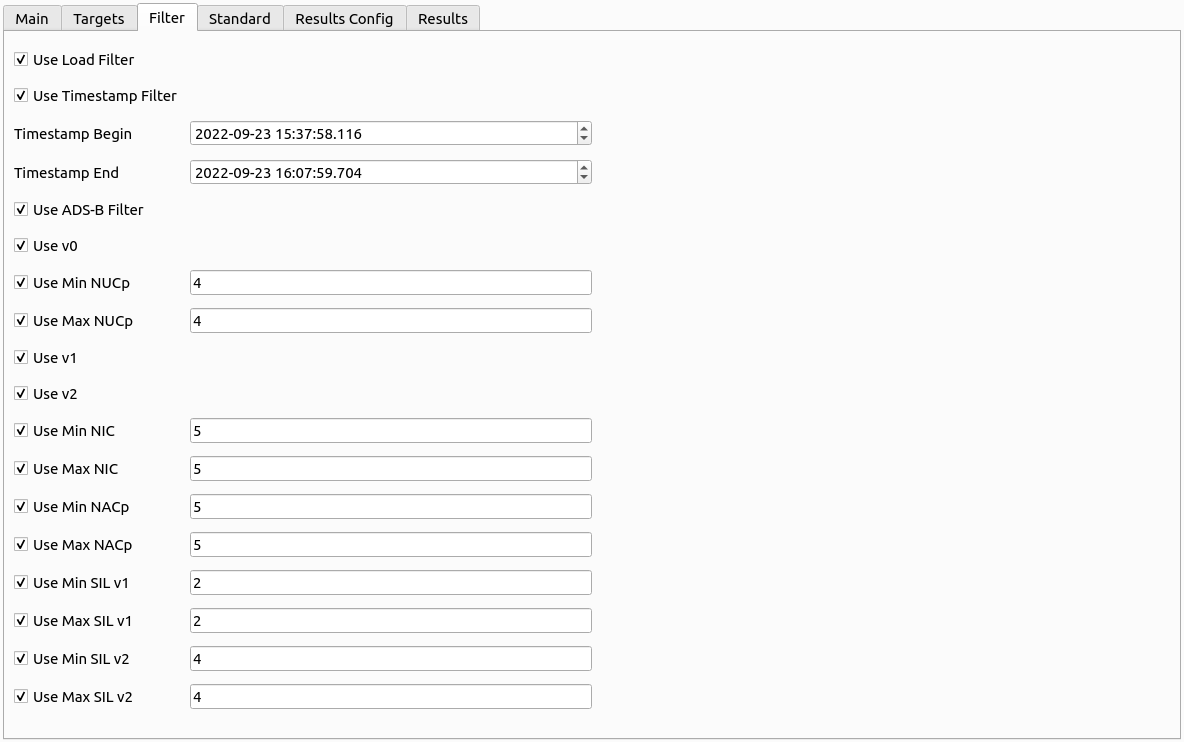
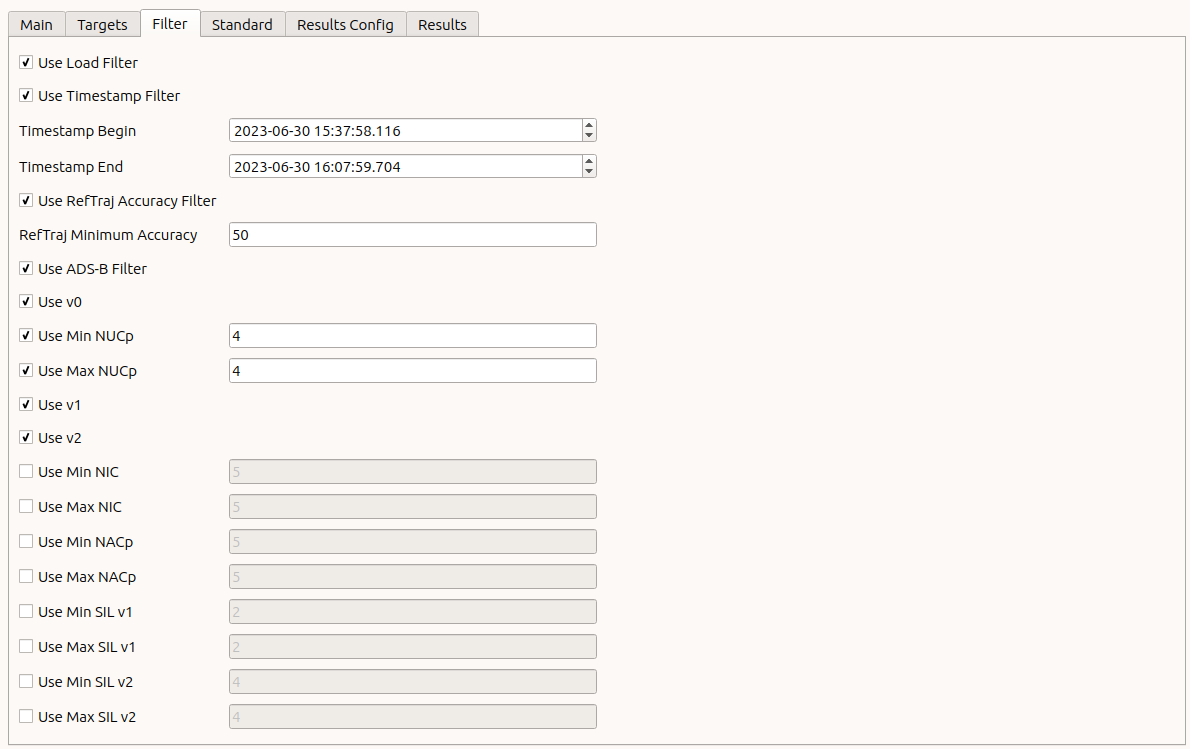
docu up

diff --git a/doc/user_manual/eval/evaluation.tex b/doc/user_manual/eval/evaluation.tex
@@ -202,6 +202,7 @@ Below, the following elements exist:
 \begin{itemize}  
 \item 'Use Load Filter': Toggles usage of the load filter
 \item 'Use Timestamp Filter: Toggles usage of the timestamp filter
+\item 'Use RefTraj Accuracy Filter: Toggles usage of the minimum accuracy filter for DBContent RefTraj
 \item 'Use ADS-B Filter: Toggles usage of the ADS-B filter
 \item 'Use v0: Toggles usage of MOPS Version 0
 \item 'Use Min NUCp: Toggles usage of the minimum NUCp value filter
@@ -244,7 +245,8 @@ Currently, the following standards are (partly) supported:
 \begin{itemize}  
 \item EUROCAE ED-116 (\href{https://eshop.eurocae.net/eurocae-documents-and-reports/ed-116/}{Link})
 \item EUROCAE ED-117/A (\href{https://eshop.eurocae.net/eurocae-documents-and-reports/ed-117a/}{Link})
-\item EUROCAE ED-87C (\href{https://eshop.eurocae.net/eurocae-documents-and-reports/ed-87c/}{Link})
+\item EUROCAE ED-87C/E (\href{https://eshop.eurocae.net/eurocae-documents-and-reports/ed-87c/}{Link})
+\item EUROCAE ED-142 (\href{https://eshop.eurocae.net/eurocae-documents-and-reports/ed-142/}{Link})
 \end{itemize}
 \ \\
 
@@ -303,14 +305,18 @@ The following requirements exist:
     \nameref{sec:eval_req_extra_data} & Calculates probability of unused test data (based on test data only) \\ \hline
     \nameref{sec:eval_req_extra_track} & Calculates probability of undetected tracks (based on reference data only) \\ \hline
     \nameref{sec:eval_req_id_correct} & Calculates probability of correct secondary identification \\ \hline
+    \nameref{sec:eval_req_id_correct_periods} & Calculates probability of correct secondary identification based on UIs \\ \hline
     \nameref{sec:eval_req_id_false} & Calculates probability of false secondary identification \\ \hline
     \nameref{sec:eval_req_m3a_false} & Calculates probability of false Mode 3/A code \\ \hline
     \nameref{sec:eval_req_m3a_present} & Calculates probability of Mode 3/A code present \\ \hline
+    \nameref{sec:eval_req_mc_correct} & Calculates probability of correct Mode C code \\ \hline
+    \nameref{sec:eval_req_mc_correct_periods} & Calculates probability of correct Mode C code based on UIs \\ \hline
     \nameref{sec:eval_req_mc_false} & Calculates probability of false Mode C code \\ \hline
     \nameref{sec:eval_req_mc_present} & Calculates probability of Mode C code present \\ \hline
     \nameref{sec:eval_req_pos_across} & Calculates the probability of the position across error begin within a threshold \\ \hline
     \nameref{sec:eval_req_pos_along} & Calculates the probability of the position along error begin within a threshold \\ \hline
     \nameref{sec:eval_req_pos_distance} & Calculates the probability of the position error begin within or outside a threshold \\ \hline
+    \nameref{sec:eval_req_pos_distance_rms} & Calculates the probability of the position error begin within or outside an RMS threshold \\ \hline
     \nameref{sec:eval_req_pos_latency}  & Calculates the probability of the position latency begin within a threshold \\ \hline
     \nameref{sec:eval_req_speed} & Calculates the probability of the speed error begin within or outside a threshold or percentage \\ \hline
 \end{tabularx}
@@ -334,6 +340,25 @@ Each requirement has the following common attributes:
 \ \\
 
 For detailed information about each requirement please refer to section \nameref{sec:eval_requirements}.
+
+\subsection{Results Config Tab}
+
+\begin{figure}[H]
+  \hspace*{-2cm}
+    \includegraphics[width=18cm,frame]{figures/eval_results_config.png}
+  \caption{Evaluation Results tab}
+\end{figure}
+
+The following settings can be used to configure the content of the generated results:
+\begin{itemize}  
+\item Skip No Data Details: Skip per target report details of no evaluated data existsed (recomended)
+\item Split Results by MOPS Version: Split sector aggregations also by ADS-B MOPS Versions (unknown,V0,V1,V2)
+\item Split Results by Mode A/C Only and Mode S: Split sector aggregations also by Mode A/C Only and Mode S results
+\item Show ADS-B Info: Show ADS-B MOPS Version in results target lists
+\item Show OK data in Sector Results: Show also OK markings in sector aggregations (not only errors)
+\item Results Detail WGS84 Zoom Factor: Zoom factor in OSGView for target report details
+\end{itemize}
+\ \\
 
 \subsection{Results Tab}
 

diff --git a/doc/user_manual/eval/eval_requirements.tex b/doc/user_manual/eval/eval_requirements.tex
@@ -565,6 +565,18 @@ Also, a table is given for all single targets, sorted by PEx.
 \end{table}
 \end{center}
 
+\subsection{Identification Correct Periods}
+\label{sec:eval_req_id_correct_periods} 
+
+\hl{TODO}
+
+\subsubsection{Configuration}
+
+\subsubsection{Result Values}
+
+\paragraph{Sector}
+\paragraph{Single Target}
+
 \subsection{Identification False}
 \label{sec:eval_req_id_false} 
 
@@ -794,6 +806,33 @@ Also, a table is given for all single targets, sorted by PP.
 \end{tabularx}
 \end{table}
 \end{center}
+
+\subsection{Mode C Correct}
+\label{sec:eval_req_mc_correct} 
+
+\hl{TODO}
+
+\subsubsection{Configuration}
+
+\subsubsection{Result Values}
+
+\paragraph{Sector}
+\paragraph{Single Target}
+
+
+
+\subsection{Mode C Correct Periods}
+\label{sec:eval_req_mc_correct_periods} 
+
+\hl{TODO}
+
+\subsubsection{Configuration}
+
+\subsubsection{Result Values}
+
+\paragraph{Sector}
+\paragraph{Single Target}
+
 
 
 \subsection{Mode C False}
@@ -1216,6 +1255,18 @@ Also, a table is given for all single targets, sorted by PCP.
 \end{tabularx}
 \end{table}
 \end{center}
+
+\subsection{Position Distance RMS}
+\label{sec:eval_req_pos_distance_rms} 
+
+\hl{TODO}
+
+\subsubsection{Configuration}
+
+\subsubsection{Result Values}
+
+\paragraph{Sector}
+\paragraph{Single Target}
 
 \subsection{Position Latency}
 \label{sec:eval_req_pos_latency} 

diff --git a/src/eval/evaluationfiltertabwidget.cpp b/src/eval/evaluationfiltertabwidget.cpp
@@ -552,7 +552,7 @@ void EvaluationFilterTabWidget::update()
 
     assert (min_reftraj_acc_edit_);
     min_reftraj_acc_edit_->setText(QString::number(eval_settings_.ref_traj_minimum_accuracy_));
-    time_begin_edit_->setEnabled(use_filter && eval_settings_.use_ref_traj_accuracy_filter_);
+    min_reftraj_acc_edit_->setEnabled(use_filter && eval_settings_.use_ref_traj_accuracy_filter_);
 
     // adsb
 

diff --git a/doc/user_manual/user_manual.tex b/doc/user_manual/user_manual.tex
@@ -41,6 +41,7 @@
 \usepackage[export]{adjustbox}
 \usepackage{listings}
 \usepackage{tabularx}
+\usepackage{soul}
 
 \usepackage{color}
 \definecolor{lbcolor}{rgb}{0.9,0.9,0.9}  
